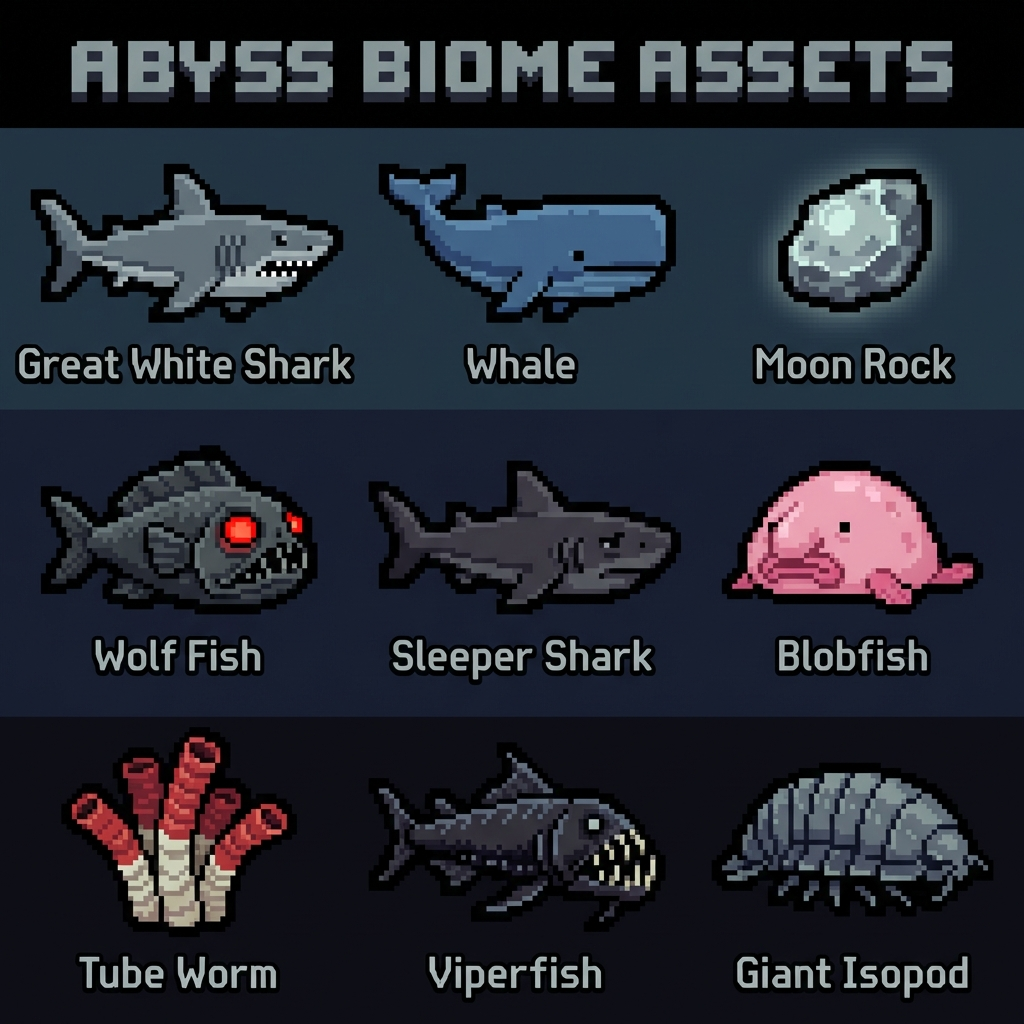
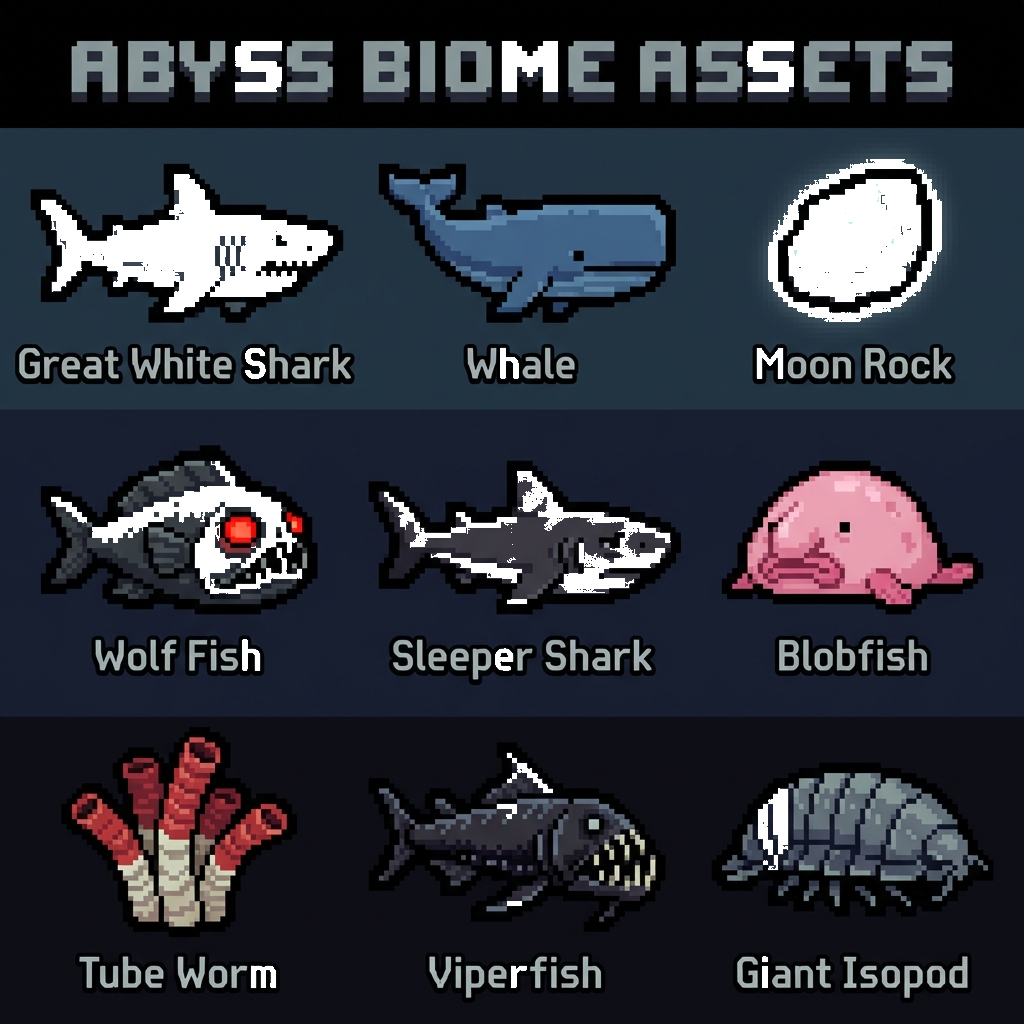
Fix spritesheet background removal by flooding from individual cells

diff --git a/test_fill.py b/test_fill.py
@@ -1,0 +1,60 @@
+from PIL import Image
+
+def is_bg(c):
+    r,g,b = c[:3]
+    if abs(r-g) < 30 and abs(g-b) < 30 and abs(r-b) < 30:
+        if 80 < r < 230:
+            return True
+    return False
+
+def remove_background(img_path):
+    img = Image.open(img_path).convert("RGBA")
+    width, height = img.size
+    pixels = img.load()
+    
+    visited = set()
+    queue = []
+    
+    # Add borders of all 16 cells
+    cell_w = width // 4
+    cell_h = height // 4
+    
+    for row in range(4):
+        for col in range(4):
+            x_start = col * cell_w
+            y_start = row * cell_h
+            x_end = x_start + cell_w - 1
+            y_end = y_start + cell_h - 1
+            
+            for x in range(x_start, x_end + 1):
+                queue.append((x, y_start))
+                queue.append((x, y_end))
+            for y in range(y_start, y_end + 1):
+                queue.append((x_start, y))
+                queue.append((x_end, y))
+                
+    for q in queue:
+        visited.add(q)
+        
+    while queue:
+        x, y = queue.pop(0)
+        c = pixels[x,y]
+        
+        if is_bg(c) or c[3] == 0:
+            pixels[x,y] = (0,0,0,0)
+            
+            for dx, dy in [(-1,0), (1,0), (0,-1), (0,1)]:
+                nx, ny = x + dx, y + dy
+                if 0 <= nx < width and 0 <= ny < height:
+                    if (nx, ny) not in visited:
+                        visited.add((nx, ny))
+                        queue.append((nx, ny))
+
+    opaque = sum(1 for x in range(width) for y in range(height) if pixels[x,y][3] == 255)
+    print(f"{img_path}: Opaque pixels = {opaque} / {width*height}")
+    img.save("test_out.png", "PNG")
+
+# first, git checkout to restore the ORIGINAL image so we have the full checkerboard
+import os
+os.system("git checkout public/assets/fishing/fishing_surface.png")
+remove_background('public/assets/fishing/fishing_surface.png')

diff --git a/fix_all_bg.py b/fix_all_bg.py
@@ -1,0 +1,63 @@
+import glob
+import os
+from PIL import Image
+
+def is_bg(c):
+    r,g,b = c[:3]
+    if abs(r-g) < 35 and abs(g-b) < 35 and abs(r-b) < 35:
+        if 60 < r < 240:
+            return True
+    return False
+
+def remove_background(img_path):
+    # Restore original image first to avoid compounding artifact issues
+    os.system(f'git checkout "{img_path}"')
+    
+    img = Image.open(img_path).convert("RGBA")
+    width, height = img.size
+    pixels = img.load()
+    
+    visited = set()
+    queue = []
+    
+    cell_w = width // 4
+    cell_h = height // 4
+    
+    for row in range(4):
+        for col in range(4):
+            x_start = col * cell_w
+            y_start = row * cell_h
+            x_end = x_start + cell_w - 1
+            y_end = y_start + cell_h - 1
+            
+            for x in range(x_start, x_end + 1):
+                queue.append((x, y_start))
+                queue.append((x, y_end))
+            for y in range(y_start, y_end + 1):
+                queue.append((x_start, y))
+                queue.append((x_end, y))
+                
+    for q in queue:
+        visited.add(q)
+        
+    while queue:
+        x, y = queue.pop(0)
+        c = pixels[x,y]
+        
+        if is_bg(c) or c[3] == 0:
+            pixels[x,y] = (0,0,0,0)
+            
+            for dx, dy in [(-1,0), (1,0), (0,-1), (0,1)]:
+                nx, ny = x + dx, y + dy
+                if 0 <= nx < width and 0 <= ny < height:
+                    if (nx, ny) not in visited:
+                        visited.add((nx, ny))
+                        queue.append((nx, ny))
+
+    # Optional: second pass to clean up any floating isolated pixels
+    # For now, let's just save.
+    img.save(img_path, "PNG")
+    print(f"Cleaned {img_path}")
+
+for f in glob.glob("public/assets/fishing/*.png"):
+    remove_background(f)

diff --git a/test_block.py b/test_block.py
@@ -1,0 +1,14 @@
+from PIL import Image
+
+img = Image.open('public/assets/fishing/fishing_surface.png')
+pixels = img.load()
+
+# Let's find a pixel that is opaque and near the top left
+for y in range(0, 100):
+    for x in range(0, 100):
+        if pixels[x,y][3] == 255:
+            print(f"Blocked at {x},{y}: {pixels[x,y]}")
+            break
+    else:
+        continue
+    break

diff --git a/test_alpha.py b/test_alpha.py
@@ -1,0 +1,13 @@
+from PIL import Image
+
+img = Image.open('public/assets/fishing/fishing_surface.png')
+pixels = img.load()
+width, height = img.size
+
+# Let's count how many pixels are completely opaque
+opaque = 0
+for x in range(width):
+    for y in range(height):
+        if pixels[x,y][3] == 255:
+            opaque += 1
+print(f"Opaque pixels: {opaque} / {width*height}")
